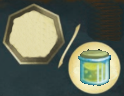
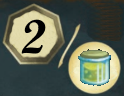
dankje wel richard ver de debug en joey voor de merge.

Changed region(s): [[0.1694, 0.1875, 0.3871, 0.5625]]

diff --git a/src/client/source/factories/ControllerFactory.java b/src/client/source/factories/ControllerFactory.java
@@ -4,7 +4,6 @@ import client.source.Client;
 import client.source.controllers.*;
 import javafx.fxml.FXMLLoader;
 
-import java.awt.image.BufferedImageOp;
 import java.io.IOException;
 
 /**
@@ -341,7 +340,7 @@ public class ControllerFactory {
         SellGoodController sellGoodController = null;
 
         try {
-            FXMLLoader loader = new FXMLLoader(getClass().getResource("/client/resources/views/sellGood.fxml"));
+            FXMLLoader loader = new FXMLLoader(getClass().getResource("/client/resources/views/sell_good.fxml"));
             loader.load();
 
             sellGoodController = loader.getController();
@@ -356,7 +355,7 @@ public class ControllerFactory {
         BuyGoodController buyGoodController = null;
 
         try {
-            FXMLLoader loader = new FXMLLoader(getClass().getResource("/client/resources/views/buyGood.fxml"));
+            FXMLLoader loader = new FXMLLoader(getClass().getResource("/client/resources/views/buy_good.fxml"));
             loader.load();
 
             buyGoodController = loader.getController();

diff --git a/src/server/sources/models/perks/VillagePointsForGoodsPerk.java b/src/server/sources/models/perks/VillagePointsForGoodsPerk.java
@@ -21,8 +21,10 @@ public class VillagePointsForGoodsPerk implements Perk, EndOfGame {
     }
 
     @Override
-    public String getBackground() {
-        return "village_points_for_goods.png";
+    public  String getBackground() throws RemoteException {
+        System.out.println(this.good);
+        String good = this.good.getBackground();
+        return "village_points_for_" + good;
     }
 
     @Override

diff --git a/src/server/sources/models/perks/VillagePointsPerk.java b/src/server/sources/models/perks/VillagePointsPerk.java
@@ -18,7 +18,7 @@ public class VillagePointsPerk implements Perk, EndOfGame {
 
     @Override
     public String getBackground() {
-        return "villager_point.png";
+        return "village_points" + this.value + ".png";
     }
 
     @Override
